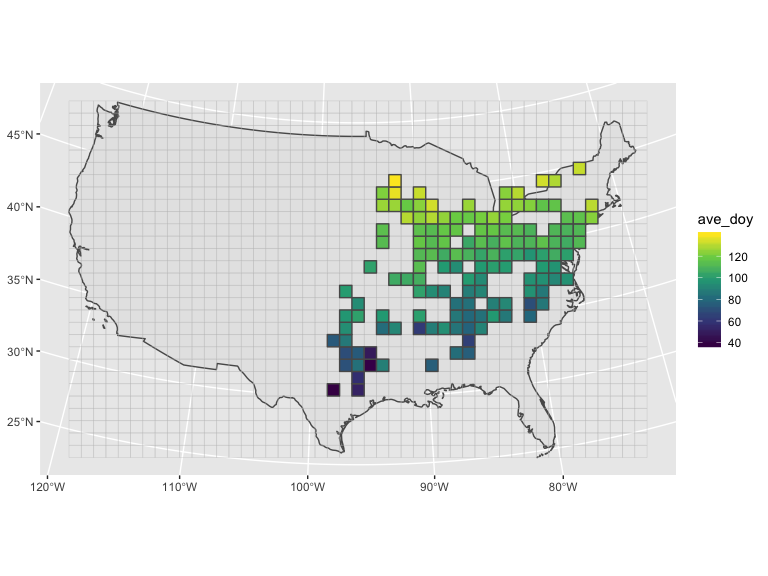
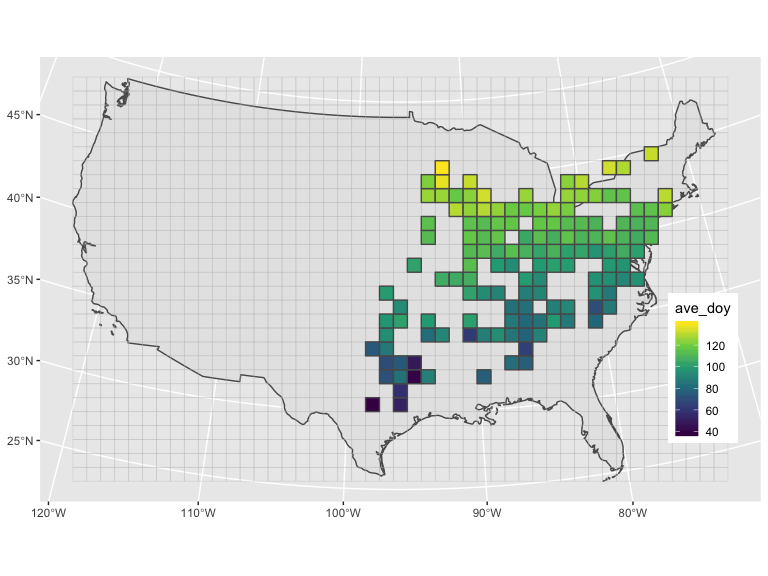
add plot of summarized data

diff --git a/README.md b/README.md
@@ -110,7 +110,8 @@ cell_100k$fig_base +
             left_join(cell_100k$grids, by = "id_cells") %>% 
             st_sf(), 
           aes(fill = ave_doy)) +
-  scale_fill_viridis_c()
+  scale_fill_viridis_c() +
+  theme(legend.position = c(0.92, 0.3))
 ```
 
 ![](README_files/figure-gfm/unnamed-chunk-6-1.png)<!-- -->
